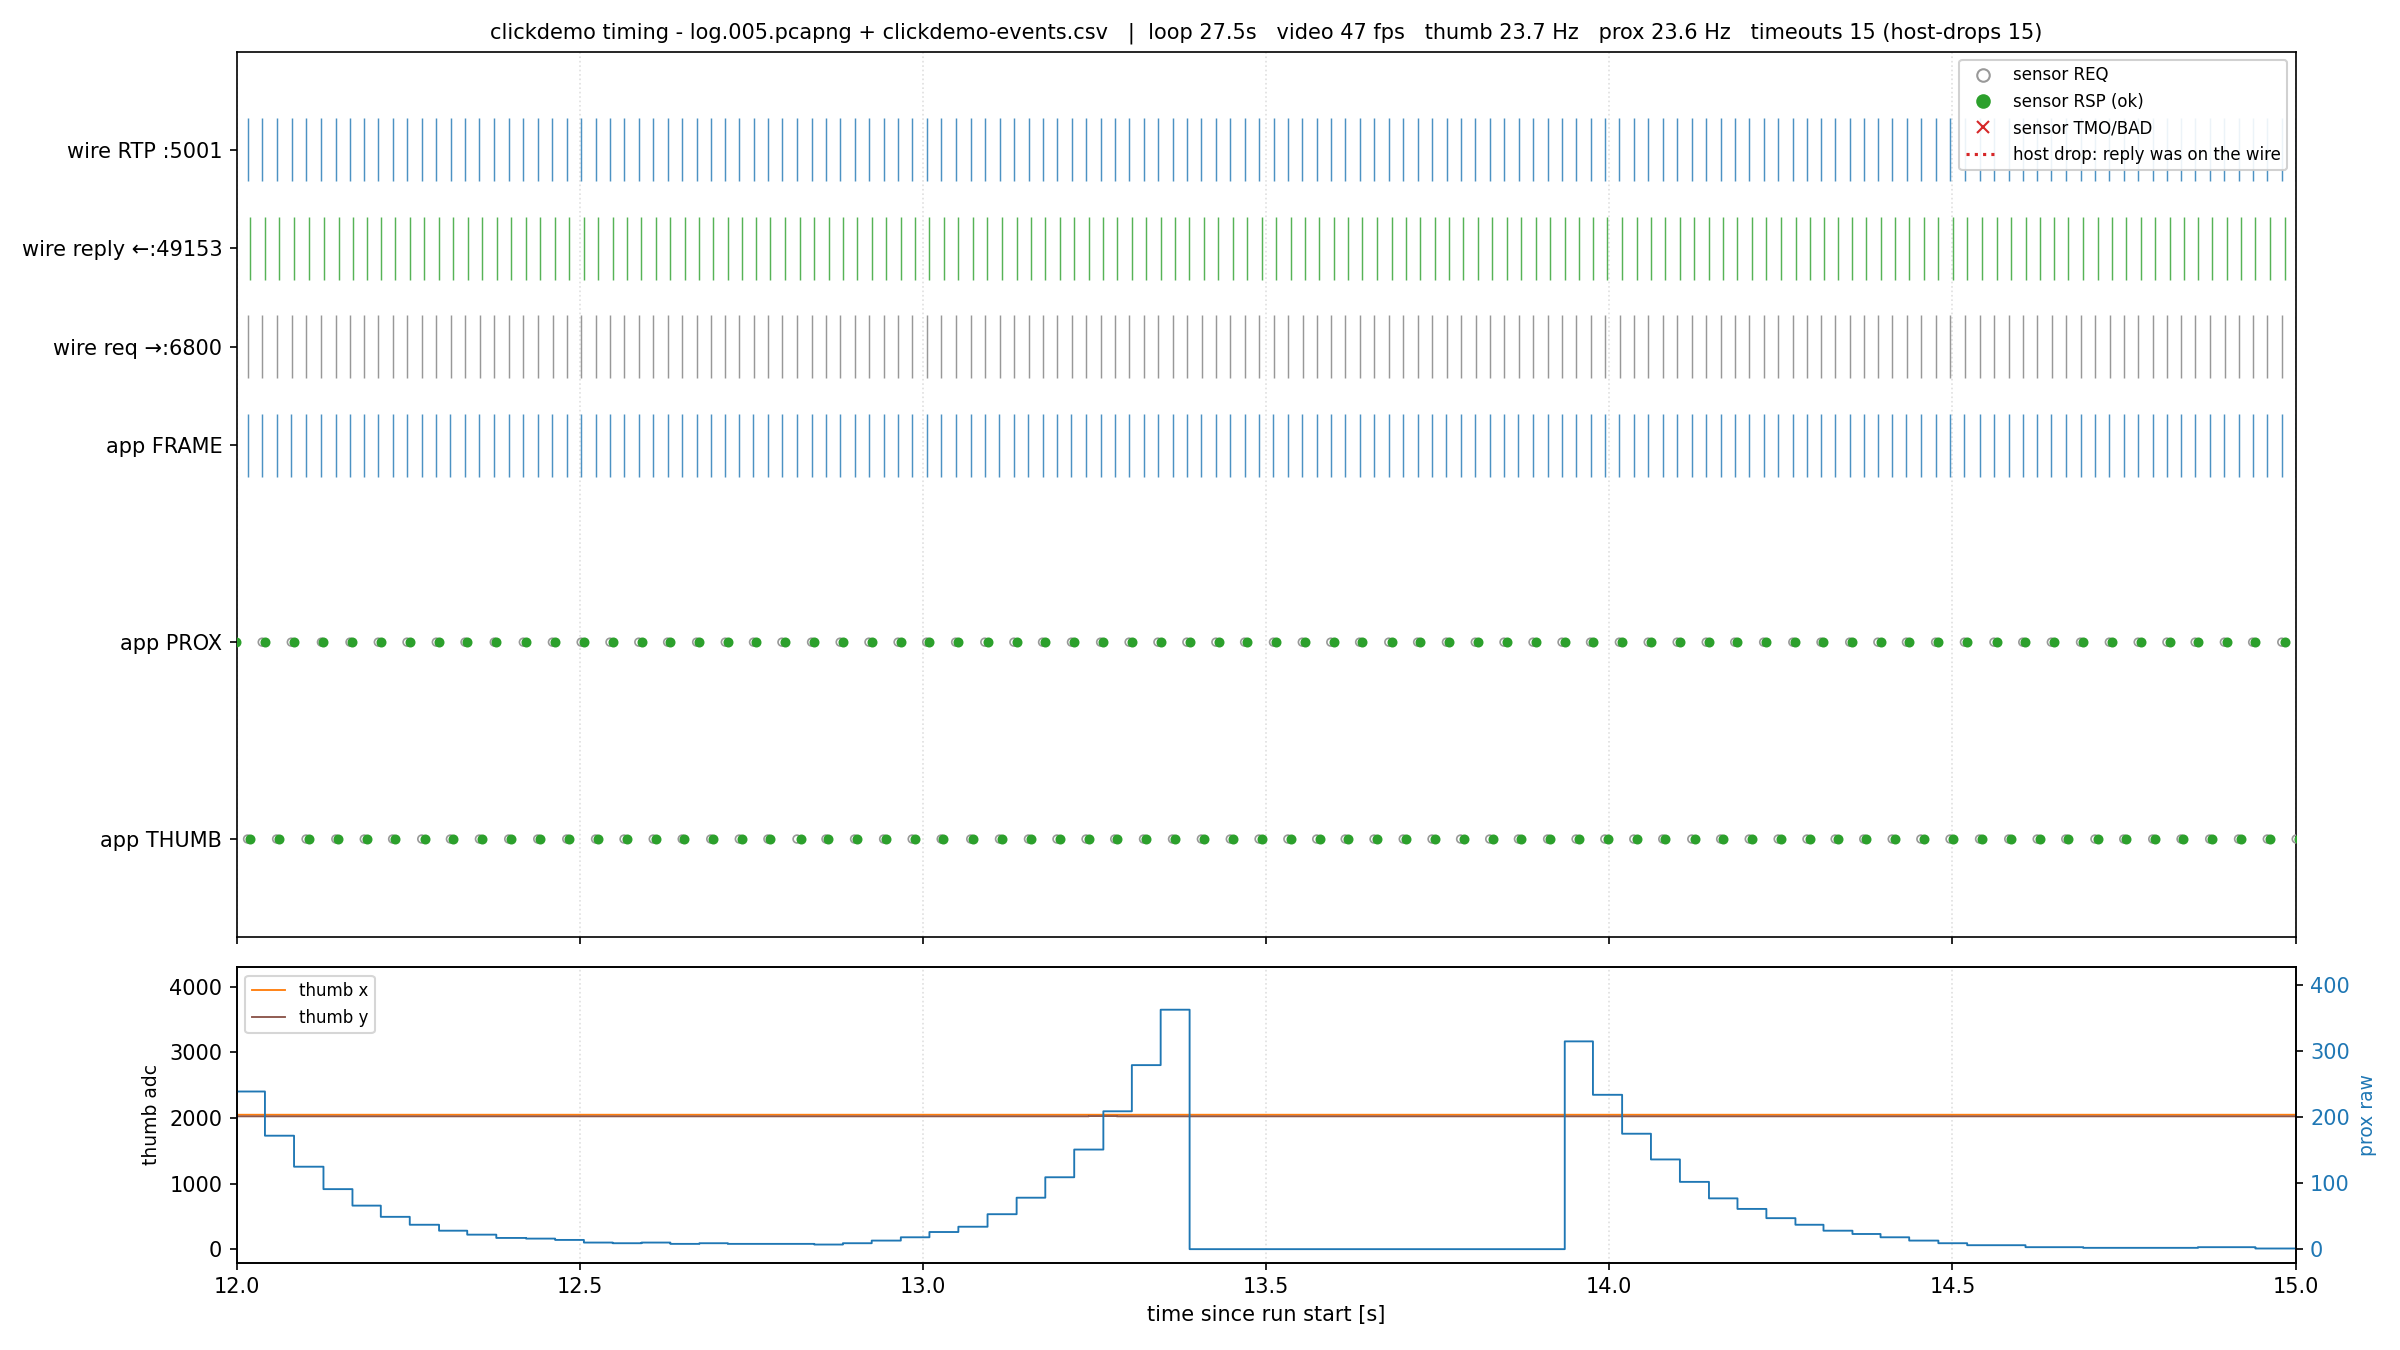
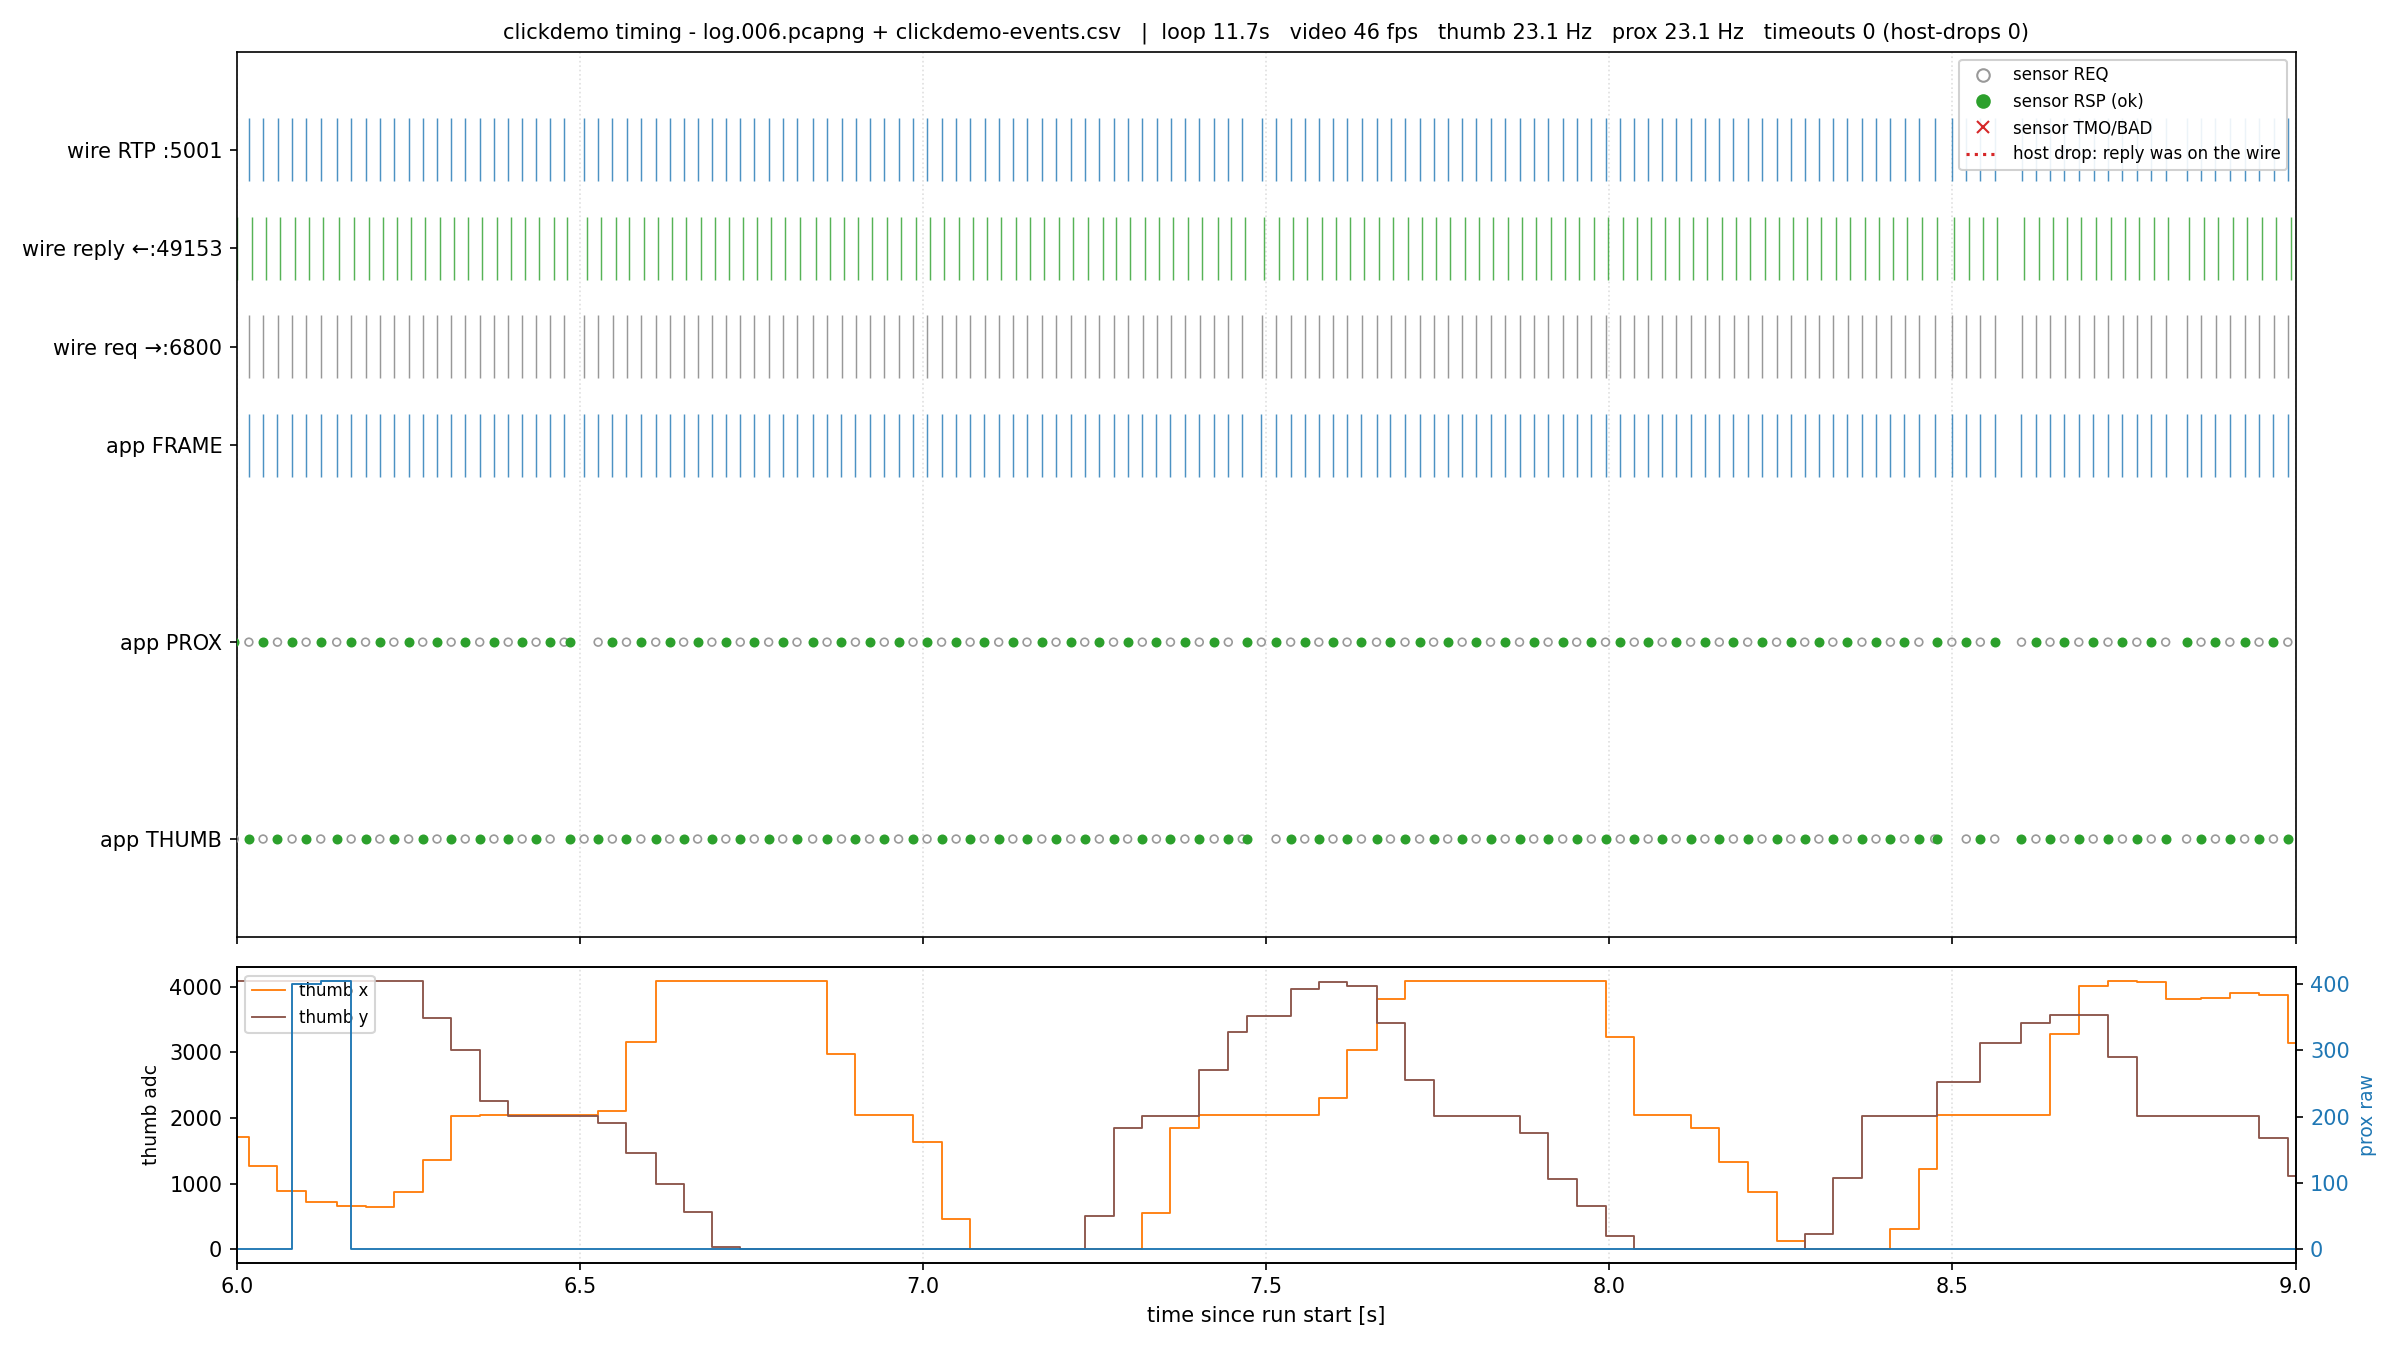
docs: update CLICKDEMO.md timing analysis for the single-thread build
Re-measure on the single-thread architecture (capture log.006 + its event log,
11.7 s run) and update the timing deep-dive accordingly:

- 541/541 sensor replies delivered, 0 timeouts, 0 host-side drops (was ~1% on
  the threaded build). Wire RTT ~3.6 ms; host delivers at the ~21 ms poll
  cadence; ~46 fps with 0 frame gaps over 100 ms.
- Reframe section 4.2: the dominant fact is now "wire ~4 ms, host delivers at the
  poll cadence", and the synchronous poll removes the rx-thread drop mode
  (gotcha #4 only bites unpaced back-to-back traffic; the 1:1 pacing avoids it).
- Software/async text: callback now runs synchronously on the polling strand,
  no rx thread, no volatile, gotcha #3 cannot occur.
- Regenerate the overview + clean-window diagrams from log.006; replace the old
  "host drops" plot (no drops exist now) with a wire-RTT-vs-host-latency +
  frame-cadence figure (clickdemo-st-latency.png).
- Refresh the before->after table to threaded -> single-thread.

diff --git a/docs/CLICKDEMO.md b/docs/CLICKDEMO.md
@@ -63,21 +63,27 @@ flowchart LR
 ## 3. The software
 
 Single file [`clickdemo.c`](../clickdemo.c), linked against `rcpcore` (RCP over
-`libsomeip`) + Winsock for the RTP socket. The relevant pieces:
+`libsomeip`) on the **single‑thread platform layer** ([`plat.h`](../src/plat.h) /
+[PORTING.md](../PORTING.md)). The render/sensor loop is platform‑neutral; the few
+Windows specifics sit behind an `#ifdef _WIN32` glue. The relevant pieces:
 
 | Part | Function(s) | Role |
 |---|---|---|
-| Setup | `spi_setup`, `i2c_setup`, `vcnl4200_init` | one‑time, *blocking* open/init of the two peripherals (paced with small `Sleep`s) |
-| Async reads | `fire_thumb`, `fire_prox` + callbacks `on_thumb`, `on_prox` | non‑blocking RCP requests; the reply lands later on the rx thread and updates shared `volatile` state |
+| Setup | `spi_setup`, `i2c_setup`, `vcnl4200_init` | one‑time, *blocking* open/init of the two peripherals (paced with small `plat_sleep_ms`s) |
+| Async reads | `fire_thumb`, `fire_prox` + callbacks `on_thumb`, `on_prox` | non‑blocking RCP requests; the reply is delivered **synchronously** by `rcp_async_poll()` and updates plain shared state |
 | Render | `thumb_spot`, `prox_bar` | turn the latest sensor values into the 20×10 RGB framebuffer |
-| Stream | `rtp_send` / `rtp_send_region` | pack the framebuffer into one RFC4175 datagram → UDP 5001 |
+| Stream | `rtp_send` / `rtp_send_region` | pack the framebuffer into one RFC4175 datagram → UDP 5001 (via `plat_udp_*`) |
 | Event log | `elog` + `--log` | one CSV row per event for analysis (see §6) |
 
 **Asynchronous RCP** is the key. `rcp_async_request()` sends and returns
-immediately; `rcp_async_poll()` drives completions/timeouts. The callback runs
-**under the transmit lock** (a non‑reentrant semaphore — see
-[gotcha #3](INTEGRATION_NOTES.md#gotcha--callbacks-run-under-a-non-reentrant-lock)),
-so it only stores results in `volatile` variables and never calls back into `rcp_*`.
+immediately; `rcp_async_poll()` drives completions/timeouts. Since the
+[single‑thread port](../PORTING.md), received datagrams are dispatched
+**synchronously** from the poll, so the callback runs on the **same (only)
+execution strand** as the loop — there is no rx thread, the critical sections are
+no‑ops, and the old non‑reentrant‑semaphore self‑deadlock
+([gotcha #3](INTEGRATION_NOTES.md#gotcha--callbacks-run-under-a-non-reentrant-lock))
+**cannot occur**. The callback just stores results in plain variables; no
+`volatile`/atomic/lock is needed, and it must not call back into `rcp_*`.
 
 ---
 
@@ -92,7 +98,7 @@ so it only stores results in `volatile` variables and never calls back into `rcp
    │ 3. fire ONE sensor read  ← alternating thumb / prox (1:1)        │
    │ 4. rcp_async_poll()      ← deliver replies / time‑outs           │
    │ 5. throttled status line (~10 Hz)                                │
-   │ 6. Sleep(1000/fps)                                               │
+   │ 6. plat_sleep_ms(1000/fps)                                       │
    └──────────────────────────────────────────────────────────────────┘
 ```
 
@@ -107,24 +113,38 @@ pipeline — including the video — froze. Now a loop stall delays at most one 
 
 **(b) One read per tick, alternating thumb/prox (1:1).** Two RCP requests fired
 back‑to‑back make their two replies arrive ~ms apart, and the Windows host then
-**drops one of them** (see (d)). Firing exactly one per tick keeps replies **solo**.
-1:1 gives each sensor ~half the frame rate (~23 Hz). An earlier 3:1 thumb bias
-starved the proximity to ~12 Hz — a visibly stuttering bar.
+**drops one of them** ([gotcha #4](INTEGRATION_NOTES.md#host-throughput-vs-t1s-link-quality-important)
+— a socket‑path behaviour, independent of threading). Firing exactly one per tick
+paces requests ~20 ms apart and keeps replies **solo** — this is what holds the
+measured drop rate at **0 %** (§5). 1:1 gives each sensor ~half the frame rate
+(~23 Hz). An earlier 3:1 thumb bias starved the proximity to ~12 Hz — a visibly
+stuttering bar.
 
-**(c) Async deadline = 70 ms.** The wire answers in ~3–4 ms, but the host's
-rx‑dispatch thread occasionally falls **~40–50 ms behind in bursts**. A too‑short
-deadline (we tried 40 ms) discards a reply that is *already on the wire* and re‑reads
-for nothing; 70 ms clears that jitter while a genuine loss still recovers ~2× faster
-than the original 120 ms.
+**(c) Async deadline = 70 ms — now comfortable headroom.** The wire answers in
+~3–4 ms and, with one paced read per tick, every reply is collected by the next
+`rcp_async_poll()`. 70 ms covers the worst observed loop stall (~71 ms scheduler
+hiccup) so a reply in flight across a stall is still delivered, not falsely timed
+out. In the single‑thread build it was **never hit** (0 timeouts, §5). *(Historically,
+in the old rx‑thread design this deadline absorbed bursts where the host's rx
+dispatch fell ~40–50 ms behind; the single‑thread synchronous poll removed that
+failure mode.)*
 
-### 4.2 The dominant timing fact: host‑side reply drops (gotcha #4)
+### 4.2 The dominant timing fact: wire ~4 ms, host delivers at the poll cadence
 
-The 10BASE‑T1S link and the firmware are **excellent** — RTT ~3–4 ms, every request
-answered. **All** observed hitches are **host‑side**: the reply datagram is captured
-on the NIC but **the Windows socket path doesn't hand it to the app in time**, so the
-async layer times out. This is [gotcha #4](INTEGRATION_NOTES.md#host-throughput-vs-t1s-link-quality-important).
-It is made worse by extra active NICs (the SD multicast is joined on every interface)
-— disabling unrelated NICs/Wi‑Fi reduces it.
+The 10BASE‑T1S link and the firmware are **excellent** — wire RTT ~3.6 ms, **every
+request answered** (§5). The app sees each reply not at 3.6 ms but at the **next poll
+tick** (~21 ms), because the loop fires one read and then collects replies once per
+frame — so the host‑observed latency is the *poll cadence*, not the wire.
+
+The old failure mode — the Windows socket path dropping a reply that was already on
+the NIC ([gotcha #4](INTEGRATION_NOTES.md#host-throughput-vs-t1s-link-quality-important))
+— came from **two requests racing back‑to‑back** and, in the previous design, a
+separate rx thread that could fall behind. The single‑thread build removes the rx
+thread entirely (replies are polled synchronously), and the one‑read‑per‑tick pacing
+keeps requests from racing. Result: **0 host‑side drops** across a full run (§5.3),
+versus the ~1 % the threaded build still saw. Gotcha #4 remains a real host behaviour
+under *unpaced* back‑to‑back traffic — the pacing is what avoids it. (Extra active
+NICs still aggravate it, since the SD multicast is joined on every interface.)
 
 ---
 
@@ -136,44 +156,54 @@ top→bottom: wire RTP `:5001`, wire reply `←:49153`, wire request `→:6800`,
 `FRAME`, app `PROX`, app `THUMB`. Markers: REQ ○, RSP ● (green), TMO ✕ (red). The
 bottom panel plots the sensor values.
 
+*(Measured on the single‑thread build — capture `log.006.pcapng` + its
+`clickdemo-events.csv`, an 11.7 s run, hand waved in front of the proximity sensor
+~3–6 s and the thumbstick worked ~6–9 s.)*
+
 ### 5.1 Overview of a full run
 
 ![timing overview](img/clickdemo-timing-overview.png)
 
-The first ~9 s is **discovery + peripheral setup** (sparse, paced round‑trips, no
-frames). From then on the loop streams: the RTP / reply / request lanes are **dense
-and steady (~47 fps video, ~23 Hz per sensor)**, and the bottom panel shows the
-proximity value (blue) responding to a hand waved in front of the sensor while the
-thumbstick (orange) is moved around 20–33 s. Title line carries the run summary.
+The whole run streams: the RTP / reply / request lanes are **dense and steady**
+(~46 fps video, ~23 Hz per sensor), the PROX and THUMB lanes are a solid line of
+**green RSPs with no red ✕ anywhere** — **0 timeouts, 0 host‑drops** (title line). The
+bottom panel shows the proximity value (blue) spiking as a hand approaches (~3–6 s) and
+the thumbstick X/Y (orange/brown) swept around 6–9 s. (Discovery + peripheral setup
+happen before the event log opens, so the CSV covers the streaming phase only.)
 
-### 5.2 A clean window — balanced reads, smooth values
+### 5.2 A clean window — balanced reads, every reply delivered
 
 ![timing, clean window](img/clickdemo-timing-clean.png)
 
-Zoomed to ~4 s of normal operation. Thumbstick and proximity RSPs (green) **alternate
-evenly** at ~23 Hz each; every wire request gets a reply within a couple of ms; the
-`prox raw` step curve updates smoothly. This is what "flüssig" looks like.
+Zoomed to 6–9 s. Thumbstick and proximity **alternate evenly** — REQ (○) then RSP (●
+green) — at ~23 Hz each; **every** wire request gets a reply within a couple of ms and
+the app delivers it (no red); the thumb X/Y step curves update smoothly. This is what
+"flüssig" looks like, and it is now the *typical* window, not a lucky one.
 
-### 5.3 A drop window — the host‑drop mechanism, made explicit
+### 5.3 The single‑thread result: wire RTT vs host latency, and cadence
 
-![timing, host drops](img/clickdemo-timing-drops.png)
+![latency and cadence](img/clickdemo-st-latency.png)
 
-The headline plot. Each **red ✕** on an app lane is a sensor **timeout**, connected by
-a red dotted line to a **red circle on the wire‑reply lane** — i.e. *the reply WAS on
-the wire (~4 ms after the request) but the app never received it*. That is gotcha #4
-caught red‑handed: pure **host‑side** loss, not a link problem. After the fixes these
-are rare (~1 % of reads) and each costs ~70 ms (one re‑read), instead of the ~170 ms
-freeze the original code suffered.
+The headline plot for the single‑thread build. **Left:** the wire RTT (green) is a
+tight spike at **~3.6 ms** — the real 10BASE‑T1S round‑trip — while the app delivers
+each reply at **~21 ms** (blue), i.e. one poll tick later. The gap between the two is
+**not loss**; it is the once‑per‑frame poll cadence (the app fires one read and
+collects replies on the next tick). **Right:** the frame interval sits at **21 ms
+(≈48 fps)** with a thin tail to a single **71 ms** scheduler hiccup — **0 gaps over
+100 ms**, so the decoupled video never freezes. All 541 sensor replies were delivered;
+**no red ✕ exists to plot**, because there were no timeouts.
 
-### 5.4 Before → after (what the fixes bought)
+### 5.4 Threaded → single‑thread (what the port bought)
 
-| Symptom | Before | After |
+| Symptom | Threaded build | Single‑thread build (log.006) |
 |---|---|---|
-| Video cadence | ~24 fps, froze ~150 ms on a loop stall | **~47 fps**, no stalls (decoupled) |
-| Proximity sample rate | ~12 Hz (3:1 bias) → stuttering bar | **~23 Hz** (1:1) |
-| Reply‑drop rate | ~4 % (prox) | **~1 %** |
-| Stall per dropped reply | ~170 ms (120 ms timeout) | **~70 ms** |
-| Cause of every timeout | — | **100 % host‑side**, proven by sid↔wire correlation |
+| Reply delivery | ~99 % (≈1 % host drops) | **100 %** — 541/541 replies delivered |
+| Timeouts in a run | a handful (each a host drop) | **0** |
+| Host‑side reply drops | ~1 % of reads | **0** (sid↔wire correlation: every reply consumed) |
+| Wire RTT | ~3–4 ms | ~3.6 ms (median), 5.1 ms max — unchanged, the link is fine |
+| Video cadence | ~47 fps | **~46 fps**, 0 stalls > 100 ms |
+| Per‑sensor rate | ~23 Hz | ~23 Hz (1:1, unchanged) |
+| Concurrency hazard | callback under a non‑reentrant lock (gotcha #3) | **eliminated** — synchronous poll, no lock |
 
 ---
 
@@ -190,9 +220,9 @@ freeze the original code suffered.
    python tools/plot_timing.py --pcap logs/log.NNN.pcapng --csv release/clickdemo-events.csv
    python tools/plot_timing.py --from 9 --to 12 --out logs/zoom.png   # zoom to a window
    ```
-   It prints the host‑drop timestamps so you can zoom straight to them. A timeout
-   whose `sid` is present as a reply on the wire is a host drop; one that is **absent**
-   from the wire would be a (rare) real link loss.
+   It prints the timeout/host‑drop count. On the single‑thread build this is
+   normally **0** (as in `log.006`); a timeout whose `sid` is present as a reply on
+   the wire would be a host drop, one absent from the wire a (rare) real link loss.
 
 ---
 
@@ -202,11 +232,13 @@ freeze the original code suffered.
   `--log/--nolog`. See [TOOLS.md §4.12](../TOOLS.md#412-lan866x-clickdemo).
 - **Read balance:** the 1:1 thumb/prox split lives in the loop (`tick & 1u`). Bias it
   (e.g. 3:2) only if one sensor needs more samples than the other.
-- **Async deadline:** `rcp_set_async_timeout_ms(70)` — raise it if your host's
-  rx‑dispatch jitter is larger; lower it (never below ~10× the ~4 ms RTT) for faster
-  recovery on a clean host.
-- **Environment:** disabling NICs not on the T1S subnet measurably cuts gotcha #4.
+- **Async deadline:** `rcp_set_async_timeout_ms(70)` — comfortable headroom on the
+  single‑thread build (never hit in `log.006`). Raise it for a host with larger
+  scheduler stalls; lower it (never below ~10× the ~4 ms RTT) for faster recovery.
+- **Environment:** disabling NICs not on the T1S subnet still cuts gotcha #4 under
+  unpaced traffic.
 - **Takeaway:** with the wire at ~4 ms RTT and the firmware answering everything, the
   art of a smooth host demo is **timing discipline** — decouple the display from the
-  round‑trips, pace requests so replies arrive solo, and size the timeout to the
-  host's jitter, not the wire's latency.
+  round‑trips, and pace requests so replies arrive solo. The single‑thread port then
+  removes the last host‑side hazard: replies are polled synchronously, so there is no
+  rx thread to fall behind (0 drops measured) and no lock to deadlock (gotcha #3 gone).